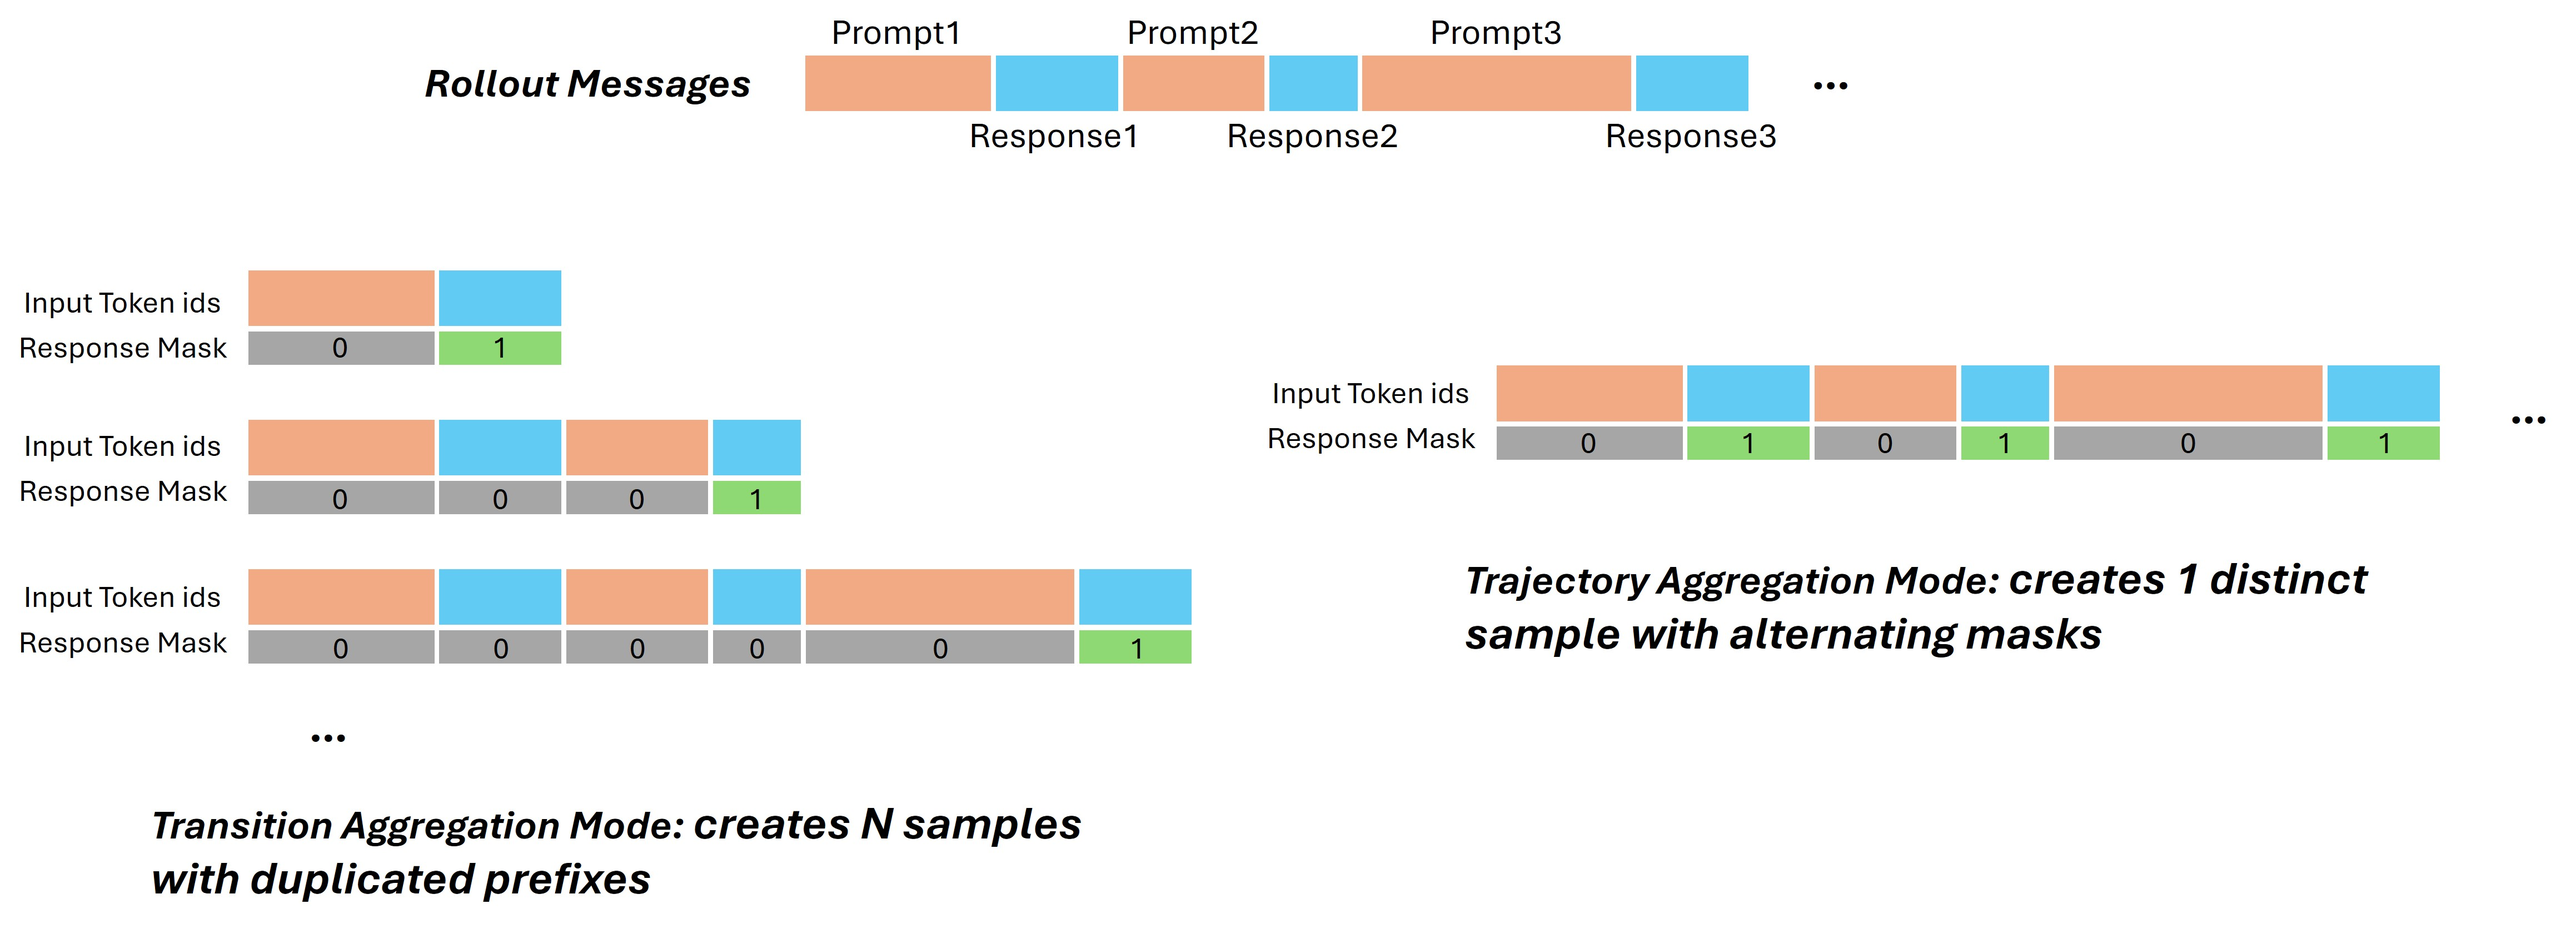
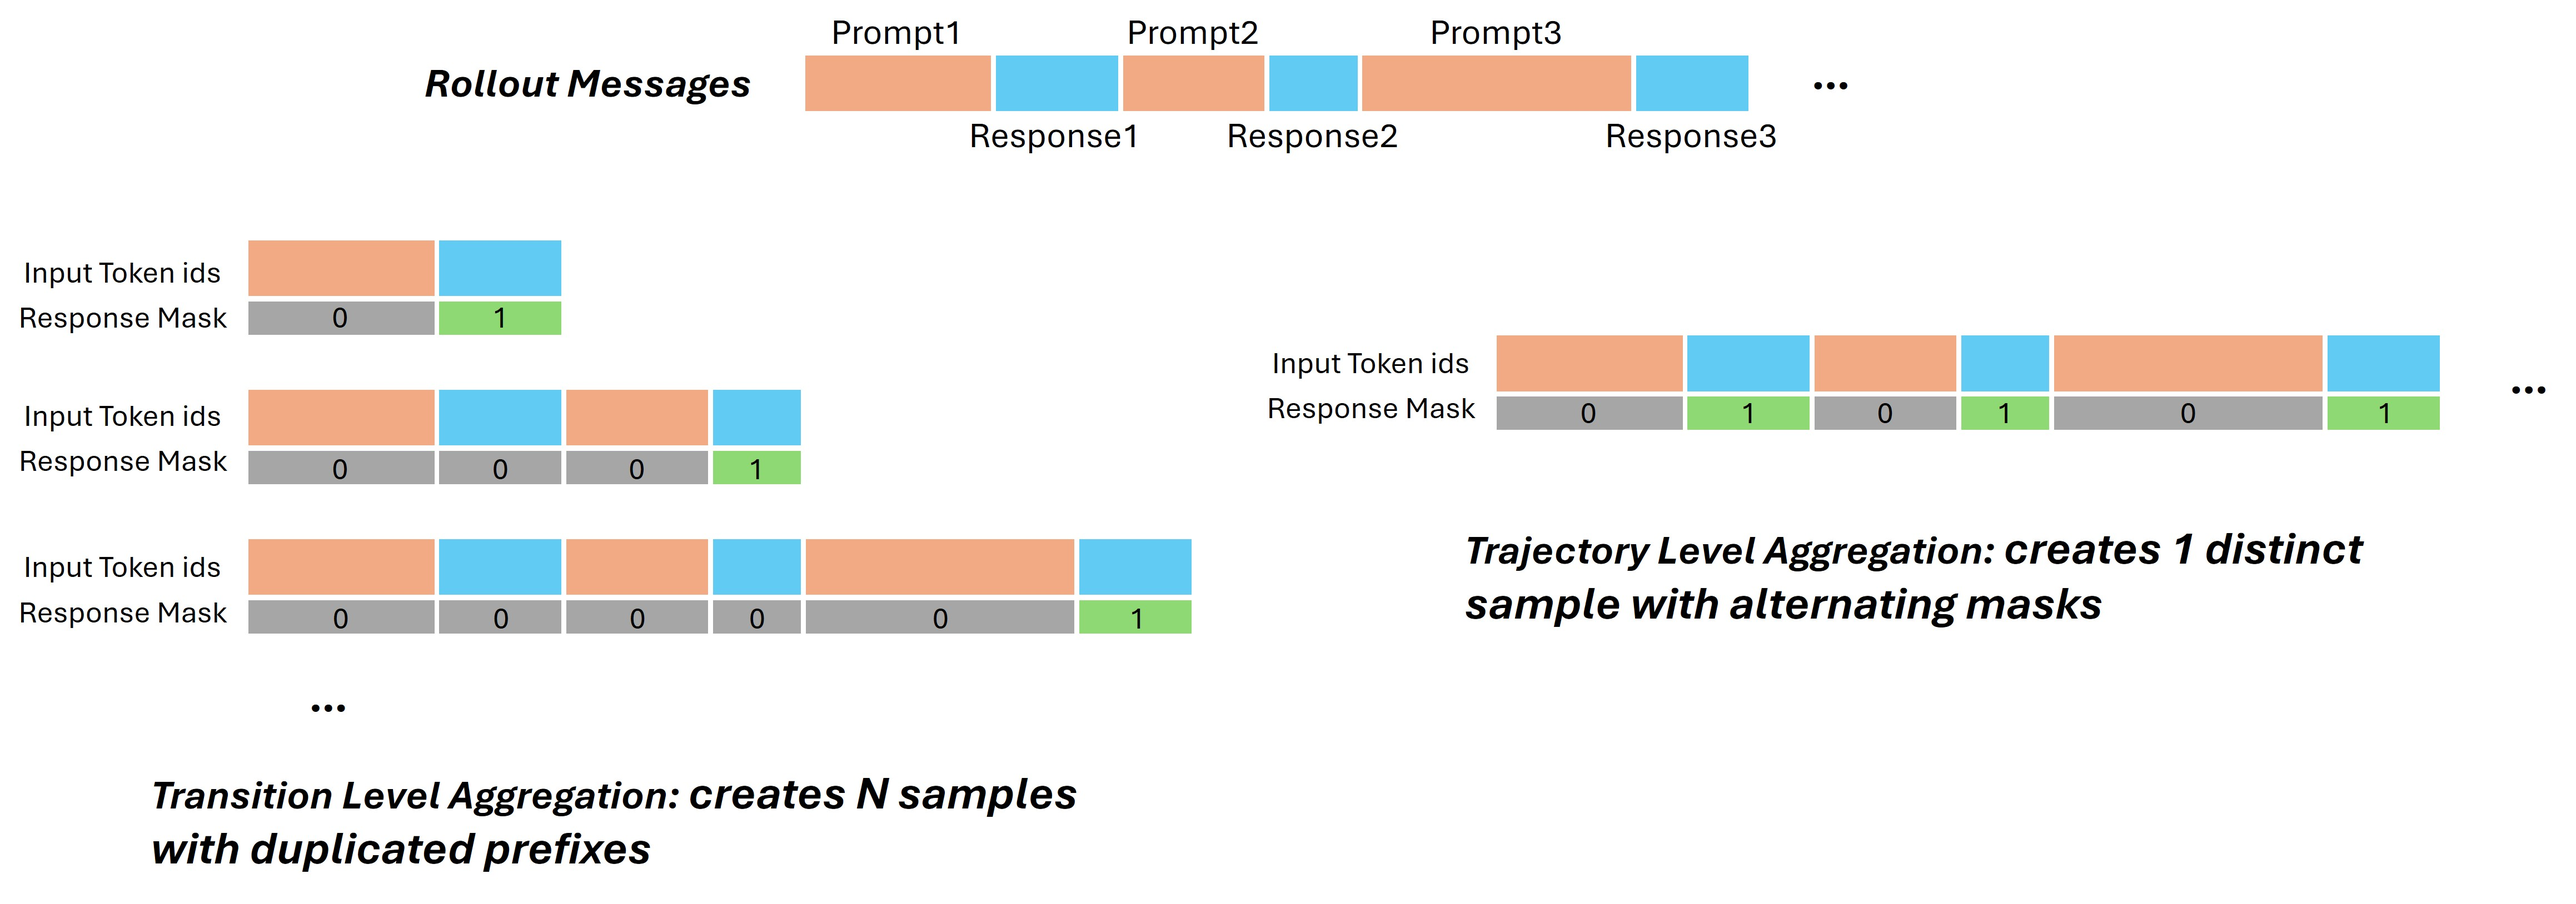
rename to trajectory level aggregation

diff --git a/content/posts/trajectory_mode/index.md b/content/posts/trajectory_mode/index.md
@@ -1,12 +1,12 @@
 +++
 date = '2025-12-17T00:00:00+08:00'
 draft = false
-title = 'Adopting the Trajectory Aggregation Mode for Faster Training'
+title = 'Adopting the Trajectory Level Aggregation for Faster Training'
 tags = ['agent rl', 'reinforcement learning', 'agent lightning', 'ai agent']
 math = true
 +++
 
-# Adopting the Trajectory Aggregation Mode for Faster Training
+# Adopting the Trajectory Level Aggregation for Faster Training
 
 *Agent Lightning (AGL) Team*
 *Date: Dec. 2025*
@@ -17,21 +17,21 @@ In the context of Multi-turn Agent Reinforcement Learning (RL), data collection 
 
 Currently, **Agent Lightning** supports two primary strategies for aggregating these interaction traces: **Transition Aggregation** and **Trajectory Aggregation**.
 
-### Transition Aggregation Mode
+### Transition Level Aggregation
 
-**Configuration:** (Default) `actor_rollout_ref.trace_aggregator.mode = transition`
+**Configuration:** (Default) `agentlightning.trace_aggregator.level = transition`
 
-In **Transition Aggregation Mode**, every individual response generated during a multi-turn session is treated as a distinct, independent training sample.
+In **Transition Level Aggregation**, every individual response generated during a multi-turn session is treated as a distinct, independent training sample.
 
 * **Structure:** For a single session containing N turns, this mode generates N separate training samples.
 * **Masking:** For any given sample, only the newly generated response (the current turn) is assigned a `response_mask=1` (active loss). The entire preceding conversation history is treated as frozen context (`response_mask=0`).
 * **Characteristics:** While this approach is simple to implement and robust against tokenization errors, it results in a dataset with a high sample count where each sample duplicates the shared history prefix. This leads to significant computational redundancy (re-computing KV caches for the same history multiple times) and increased memory overhead.
 
-### Trajectory Aggregation Mode
+### Trajectory Level Aggregation
 
-**Configuration:** `actor_rollout_ref.trace_aggregator.mode = trajectory`
+**Configuration:** `agentlightning.trace_aggregator.level = trajectory`
 
-**Trajectory Aggregation Mode** processes the entire multi-turn interaction session as a single, contiguous training sample. This is the standard approach in the broader landscape of Large Language Model (LLM) pre-training and fine-tuning.
+**Trajectory Level Aggregation** processes the entire multi-turn interaction session as a single, contiguous training sample. This is the standard approach in the broader landscape of Large Language Model (LLM) pre-training and fine-tuning.
 
 * **Structure:** A session with N turns is condensed into one long-sequence sample.
 * **Masking:** The sample utilizes an alternating mask pattern. User prompts and environment observations are masked (`response_mask=0`), while all agent responses within the sequence are active (`response_mask=1`).
@@ -43,7 +43,7 @@ In **Transition Aggregation Mode**, every individual response generated during a
 
 ---
 
-## 2. Trajectory Mode in Agent-Lightning
+## 2. Trajectory Level Aggregation in Agent-Lightning
 
 ### Implementation Logic
 
@@ -55,27 +55,26 @@ The foundational implementation of **Agent Lightning** was originally designed a
 
 ### Configuration Parameters
 
-To enable and control Trajectory Mode, specific parameters must be configured in your YAML file under `actor_rollout_ref`:
+To enable and control Trajectory Level Aggregation, specific parameters must be configured in your YAML file under `agentlightning`:
 
 ```yaml
-actor_rollout_ref:
-  rollout:
-    trace_aggregator:
-      mode: trajectory  # 'transition' or 'trajectory'
-      
-      # Maximum length for the prompt in first turn
-      trajectory_max_prompt_length: 2048
-      
-      # Maximum length for the cumulative agent responses in the full trajectory
-      trajectory_max_response_length: 8192
-      
-      debug: False  # Enable to diagnose trace merging failures
-      unmatch_log_dir: ./unmatch_cases  # Directory to store logs of unmatched cases
+agentlightning:
+  trace_aggregator:
+    level: trajectory  # 'transition' or 'trajectory'
+    
+    # Maximum length for the prompt in first turn
+    trajectory_max_prompt_length: 2048
+    
+    # Maximum length for the cumulative agent responses in the full trajectory
+    trajectory_max_response_length: 8192
+    
+    debug: False  # Enable to diagnose trace merging failures
+    unmatch_log_dir: ./unmatch_cases  # Directory to store logs of unmatched cases
 
 ```
 
 **Note on Length Constraints:**
-Because the data structure differs from transition mode, you must explicitly set:
+Because the data structure differs from transition level aggregation, you must explicitly set:
 
 * `trajectory_max_prompt_length`
 * `trajectory_max_response_length`
@@ -87,7 +86,7 @@ The standard `max_prompt_length` and `max_response_length` parameters **still re
 
 ### Debug Mode
 
-In Trajectory Mode, it is possible that—even if information is accumulated sequentially—the system fails to perfectly merge the rollout logs into a single training sample (reasons detailed in Section 3).
+In Trajectory Level Aggregation, it is possible that—even if information is accumulated sequentially—the system fails to perfectly merge the rollout logs into a single training sample (reasons detailed in Section 3).
 
 Agent Lightning provides a **Debug Mode** to monitor this stability.
 
@@ -102,7 +101,7 @@ Agent Lightning provides a **Debug Mode** to monitor this stability.
 
 ## 3. Trace Merging Failures: A Deep Dive
 
-The primary obstacle in implementing Trajectory Mode is the failure of **Prefix Matching** during the Trace Merging stage. Ideally, we would locate the agent's response within the full conversation by matching the token sequence generated during inference.
+The primary obstacle in implementing Trajectory Level Aggregation is the failure of **Prefix Matching** during the Trace Merging stage. Ideally, we would locate the agent's response within the full conversation by matching the token sequence generated during inference.
 
 However, in practice, the token IDs stored during the rollout (inference) often do not match the token IDs produced when the full history is re-tokenized for training. This is because the mapping from `String` $\to$ `Token IDs` is not bijective; it is context-dependent. The cycle of **ID (Generation) $\to$ String (Detokenization) $\to$ ID (Retokenization)** introduces drift.
 
@@ -147,7 +146,7 @@ When responses are concatenated with subsequent prompts, the tokenizer may merge
 
 ### 3.3 Message Formatting and Structural Alignment (Others Mismatch)
 
-A critical failure point in Trajectory Mode occurs when the agent logic appends response content directly to a raw string. This practice often disrupts the Chat Template's structural markers, leading to a mismatch between the inference rollout and the training prompt.
+A critical failure point in Trajectory Level Aggregation occurs when the agent logic appends response content directly to a raw string. This practice often disrupts the Chat Template's structural markers, leading to a mismatch between the inference rollout and the training prompt.
 
 **Original Implementation: Manual String Concatenation**
 In the example below, response content is directly added to a string. This bypasses the Chat Template for intermediate turns, causing the "Role" headers to disappear or become misaligned.
@@ -226,7 +225,7 @@ Minor artifacts often invisible in standard string views can cause drift.
 
 ## 4. Best Practices & Recommendations
 
-To successfully implement Trajectory Mode and minimize data loss during training, we recommend adhering to the following guidelines:
+To successfully implement Trajectory Level Aggregation and minimize data loss during training, we recommend adhering to the following guidelines:
 
 1. **Maintain Structured Conversations:** Always process turns using a cumulative message format (a list of role/content dictionaries) rather than raw string concatenation. This ensures that chat template headers remain consistent across the entire trajectory. For a practical example, please refer to the recommended implementation in **[Section 3.3](#33-message-formatting-and-structural-alignment-others-mismatch)**.
 2. **Configure Lengths for Cumulative Data:** Ensure `trajectory_max_prompt_length` and `trajectory_max_response_length` are sufficient to hold the *sum* of all turns in a session. Undersizing these will lead to truncation and invalid trajectories.
